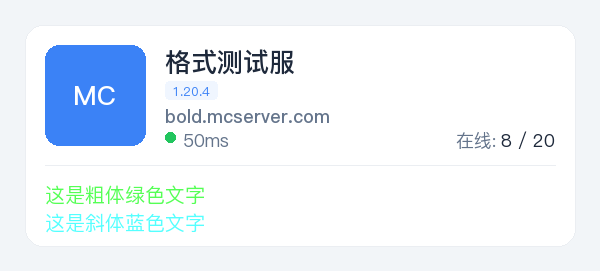
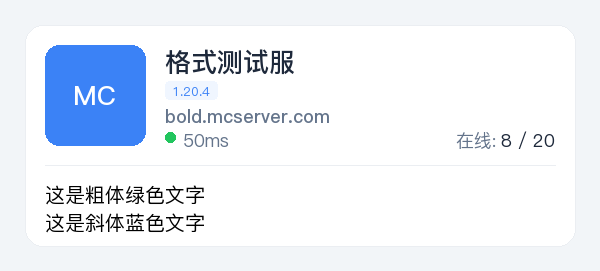
feat: 优化图像生成逻辑，增强MOTD文本渲染稳定性并调整换行处理

Changed region(s): [[0.06, 0.679, 0.36, 0.8561]]

diff --git a/script/get_img.py b/script/get_img.py
@@ -1,9 +1,8 @@
 from PIL import Image, ImageDraw, ImageFont
 import io
 import base64
-from typing import Optional, List, Tuple, Dict
+from typing import Optional, List, Tuple
 from pathlib import Path
-import re
 
 # Minecraft 1.8.9 标准颜色代码 (包含暗色和亮色变体)
 MC_COLORS = {
@@ -103,6 +102,7 @@ async def generate_server_info_image(
     C_BORDER = (235, 238, 242)
     C_ONLINE = (34, 197, 94)
     C_OFFLINE = (156, 163, 175)
+    C_BLACK = (0, 0, 0)  # MOTD 统一黑色
 
     # 字体加载
     f_bold = await load_font("PingFang Bold", 26)
@@ -119,10 +119,10 @@ async def generate_server_info_image(
     max_motd_w = img_w - (padding + card_inner) * 2
     
     # 离线处理
-    display_motd = motd if is_online else "§8服务器目前处于离线状态"
+    display_motd = motd if is_online else ""
     
-    # 解析 MOTD
-    all_segments = parse_minecraft_string(display_motd, default_color=C_SUB)
+    # 解析 MOTD（保留片段信息用于换行）
+    all_segments = parse_minecraft_string(display_motd, default_color=C_BLACK)
     
     # 使用足够大的临时图像来准确测量文本宽度
     temp_img = Image.new("RGB", (max_motd_w + 500, 100), color=(255, 255, 255))
@@ -130,8 +130,8 @@ async def generate_server_info_image(
     
     # 重构换行逻辑：维护一个"当前行"缓存
     lines_segments: List[List[TextSegment]] = []
-    current_line: List[TextSegment] = []  # 当前行片段列表
-    current_line_w: float = 0             # 当前行累计宽度
+    current_line: List[TextSegment] = []
+    current_line_w: float = 0
     
     def get_segment_width(text: str, is_bold: bool) -> float:
         """获取文本片段的宽度"""
@@ -141,7 +141,7 @@ async def generate_server_info_image(
         return temp_draw.textlength(text, font=font)
     
     def flush_current_line():
-        """将当前行推入lines_segments（如果非空）"""
+        """将当前行推入lines_segments"""
         nonlocal current_line, current_line_w
         if current_line:
             lines_segments.append(current_line)
@@ -156,48 +156,42 @@ async def generate_server_info_image(
         
         for part_idx, part in enumerate(parts):
             if not part:
-                # 遇到空部分或显式换行，直接开始新行
                 flush_current_line()
                 continue
             
             seg_w = get_segment_width(part, seg.is_bold)
             
             if current_line_w + seg_w <= max_motd_w:
-                # 当前行能容纳，直接添加
-                current_line.append(TextSegment(part, seg.color, seg.is_bold))
+                # 当前行能容纳，直接添加（使用黑色）
+                current_line.append(TextSegment(part, C_BLACK, seg.is_bold))
                 current_line_w += seg_w
             else:
                 # 当前行放不下，尝试按字符换行
                 if current_line:
                     flush_current_line()
                 
-                # 逐字符添加
+                # 逐字符添加（使用黑色）
                 char_w = 0
                 current_text = ""
                 for char in part:
                     single_char_w = get_segment_width(char, seg.is_bold)
                     if char_w + single_char_w > max_motd_w:
-                        # 当前行放不下，保存并开始新行
                         if current_text:
-                            current_line.append(TextSegment(current_text, seg.color, seg.is_bold))
+                            current_line.append(TextSegment(current_text, C_BLACK, seg.is_bold))
                         flush_current_line()
-                        # 开始新行
                         current_text = char
                         char_w = single_char_w
                     else:
                         current_text += char
                         char_w += single_char_w
                 
-                # 处理剩余文本
                 if current_text:
-                    current_line.append(TextSegment(current_text, seg.color, seg.is_bold))
+                    current_line.append(TextSegment(current_text, C_BLACK, seg.is_bold))
                     current_line_w = char_w
             
-            # 如果不是最后一个部分，开始新行
             if part_idx < len(parts) - 1:
                 flush_current_line()
     
-    # 处理最后一行
     flush_current_line()
 
     # 动态计算高度
@@ -261,7 +255,7 @@ async def generate_server_info_image(
     line_y = iy + icon_size + card_inner
     draw.line([ix, line_y, img_w - padding - card_inner, line_y], fill=C_BORDER, width=1)
 
-    # 5. 绘制 MOTD (多颜色片段渲染)
+    # 5. 绘制 MOTD (黑色文字，保留粗体)
     curr_y = line_y + 15
     for line_segs in lines_segments:
         curr_x = ix
